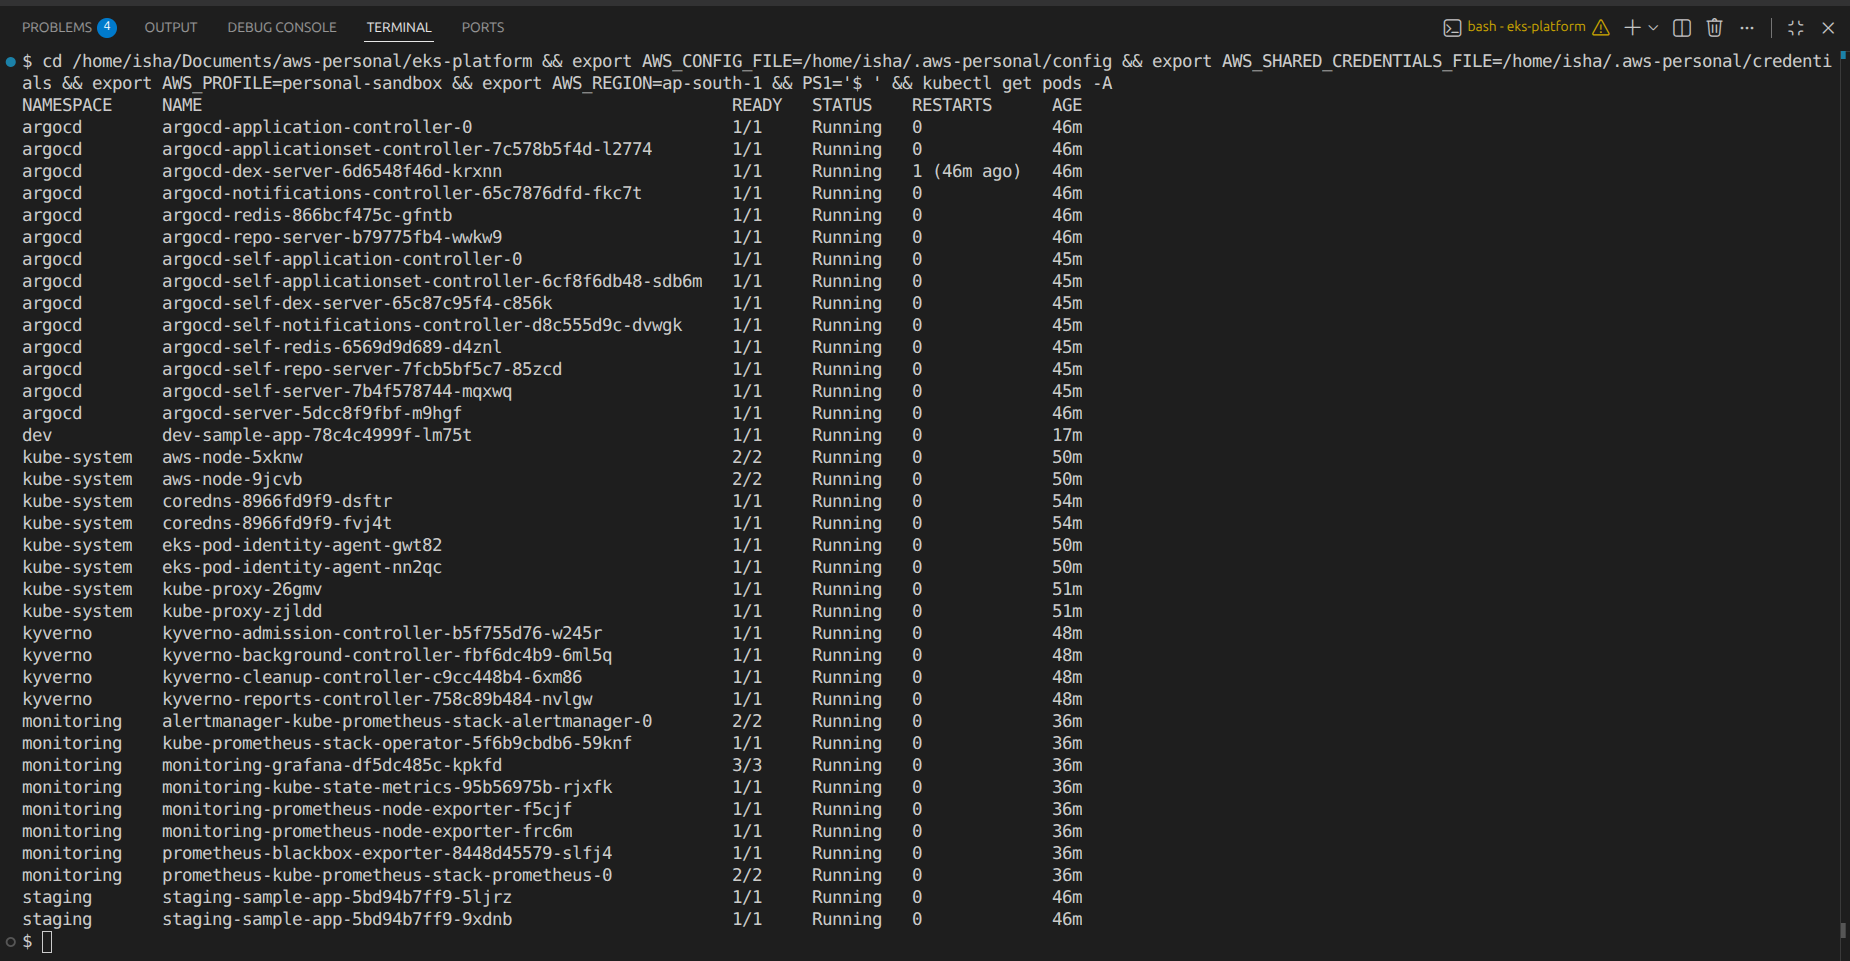
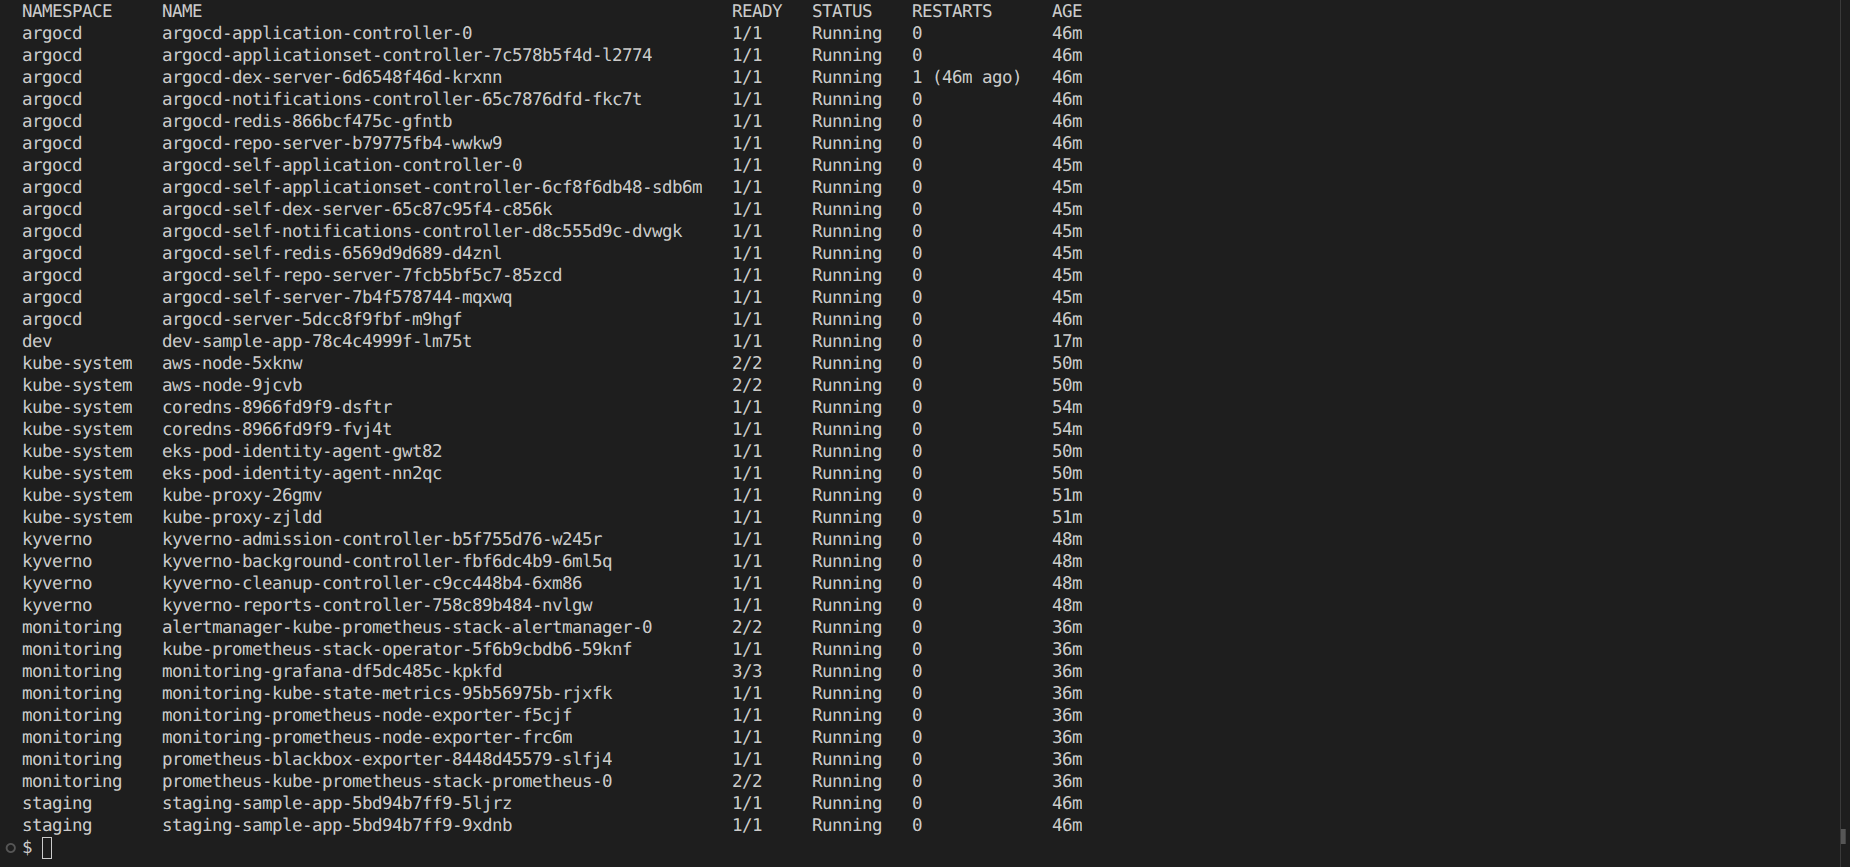
docs: crop kubectl pod image, refine captions, document control plane alerts and probe latency spike

Changed region(s): [[0.0, 0.0, 1.0, 0.9965], [0.4005, 0.3114, 0.5238, 0.9654]]

diff --git a/README.md b/README.md
@@ -9,13 +9,13 @@ My primary production background is operating AWS ECS at scale across mission-cr
 ## Screenshots
 
 ![Sample App SLO Dashboard](docs/images/grafana-slo-dashboard.png)
-*Grafana dashboard showing 100% availability and latency SLIs, multi-window burn rates, and active synthetic probe health.*
+*Captured shortly after the alert validation test. The error budget panels use a rolling 30 minute window, shortened for demonstration (a real budget would use 30 days), so they read 0% while the test is still inside that window.*
 
 ![Grafana Alerting Multi-Window Burn Rate](docs/images/grafana-firing-alert.png)
-*Grafana Alerting showing SampleAppAvailabilityFastBurn and SampleAppAvailabilitySlowBurn firing during the alert validation test.*
+*Grafana Alerting showing SampleAppAvailabilityFastBurn and SampleAppAvailabilitySlowBurn firing during the alert validation test (only these two SampleApp rules are relevant; upstream control plane alerts show firing because the AWS-managed control plane is not scrapable).*
 
 ![ArgoCD Applications Overview](docs/images/argocd-applications.png)
-*ArgoCD showing all five applications (argocd-self, dev-sample-app, monitoring, root-apps, and staging-sample-app) Synced and Healthy.*
+*ArgoCD showing all five applications (argocd-self, dev-sample-app, monitoring, root-apps, and staging-sample-app) Synced and Healthy during the Phase 3 session, when root-apps and monitoring pointed at the phase-3-monitoring branch (they point at main now).*
 
 ![Cluster Pods Overview](docs/images/kubectl-get-pods.png)
 *Terminal output showing all 37 pods Running across 6 namespaces after the Phase 3 bootstrap.*
@@ -240,6 +240,7 @@ This platform is deliberately scoped as an engineering portfolio reference rathe
 - Single-account setup: Control plane, compute, and networking reside within a single AWS account rather than separated across multi-account landing zones.
 - No NetworkPolicies and broad intra-node rule: The node security group rule ingress_self_all allows all node-to-node traffic across all protocols and ports (restricted to the node security group as source). This is broader than strictly required for port 80 synthetic probing, and Kubernetes NetworkPolicies are not implemented to enforce fine-grained pod-level isolation.
 - Kyverno policy exemptions: The monitoring namespace is completely exempt from all three CEL ValidatingPolicies to allow third-party kube-prometheus-stack components (such as node-exporter requiring host access and operator sidecars without explicit limits) to deploy without webhook rejections. Workload policies are only enforced on application namespaces (dev and staging).
+- Upstream control plane alerts on managed EKS: Default kube-prometheus-stack alerts for control plane components (scheduler, controller manager, etcd) show as firing because the AWS-managed control plane is not scrapable by in-cluster Prometheus. These alerts are an artifact of running standard upstream chart defaults on managed EKS and are unrelated to sample app workloads.
 - Ephemeral cost control: Costs are managed by rebuilding on demand and destroying after each session rather than maintaining continuous uptime.
 
 ## Roadmap

diff --git a/docs/slo.md b/docs/slo.md
@@ -60,6 +60,10 @@ Calculated over a rolling 30-minute window:
 clamp_max(clamp_min((1 - (1 - SLI_ratio_rate30m) / Error_Budget) * 100, 0), 100)
 ```
 
+> [!NOTE]
+> **Error Budget Window Shortened for Demonstration**:
+> The error budget evaluation window is deliberately shortened to a rolling 30-minute window for demonstration purposes in this ephemeral cluster (standard production error budgets use a 30-day or quarterly window). Consequently, any test or drill that exhausts the error budget causes the remaining budget gauge on the Grafana dashboard to read 0% while that incident remains within the rolling 30-minute window.
+
 ---
 
 ## Multi-Window Multi-Burn-Rate Alerting Design
@@ -78,6 +82,10 @@ To eliminate false alarms while guaranteeing rapid detection of catastrophic out
 | :--- | :--- | :--- | :--- | :--- | :--- | :--- | :--- |
 | **Fast Burn** | `critical` | **14.4x** | 2 minutes (standard: 5m) | 10 minutes (standard: 1h) | 1 minute (standard: 2m) | 2% consumed in 1 hour | Immediate page: system is critically degraded |
 | **Slow Burn** | `warning` | **3.0x** | 5 minutes (standard: 30m) | 30 minutes (standard: 6h) | 2 minutes (standard: 15m) | 5% consumed in 6 hours | Ticket / Slack notification: budget eroding steadily |
+
+> [!NOTE]
+> **Upstream Control Plane Alerting on AWS EKS**:
+> Default alert rules bundled in upstream kube-prometheus-stack for Kubernetes control plane components (e.g., `KubeSchedulerDown`, `KubeControllerManagerDown`, `etcdHighNumberOfFailedGRPCRequests`) show as firing in Grafana Alerting. On AWS EKS, the control plane is fully managed by AWS and is not scrapable by in-cluster worker node Prometheus instances. These firing alerts are expected artifacts of deploying upstream chart defaults on a managed Kubernetes service and are completely unrelated to application workloads or the sample app SLOs.
 
 ### Alert Rules Implementation
 #### Critical: Availability Fast Burn

diff --git a/docs/evidence/phase-3-verification.md b/docs/evidence/phase-3-verification.md
@@ -122,6 +122,9 @@ $ kubectl exec -n monitoring prometheus-kube-prometheus-stack-prometheus-0 -c pr
 {"status":"success","data":{"resultType":"vector","result":[{"metric":{"__name__":"probe_duration_seconds","app":"dev-sample-app","environment":"dev","instance":"http://dev-sample-app.dev.svc.cluster.local:80/","job":"blackbox-dev-sample-app","namespace":"monitoring"},"value":[1795432313.037,"0.006772836"]}]}}
 ```
 
+> [!NOTE]
+> In the recorded Grafana dashboard telemetry, an early probe latency spike (~4.5s) is visible between 16:35 and 16:40. This initial latency spike came from the first synthetic probes executed immediately after the cluster started up (initial DNS cache warming, ARP discovery, and connection handshake). Subsequent probes consistently completed in ~6.7ms (0.0067s), well below the 50ms latency SLO threshold.
+
 ### SLI Recording Rules
 ```text
 $ kubectl exec -n monitoring prometheus-kube-prometheus-stack-prometheus-0 -c prometheus -- wget -qO- "http://localhost:9090/api/v1/query?query=job:sample_app_availability:ratio_rate2m"
